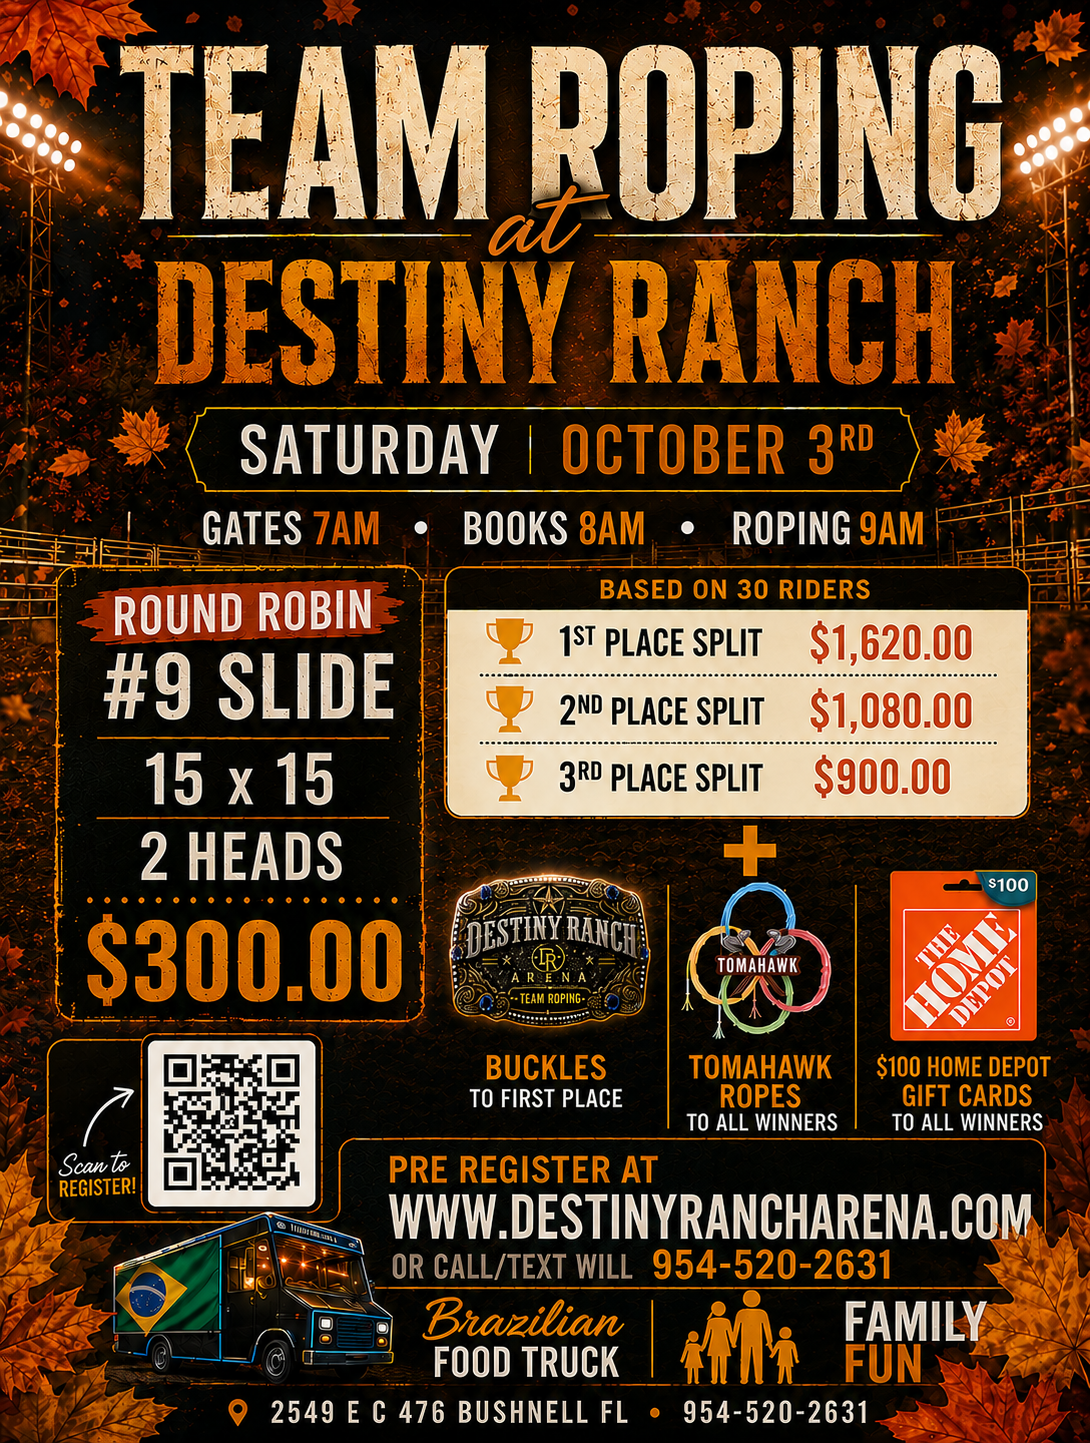
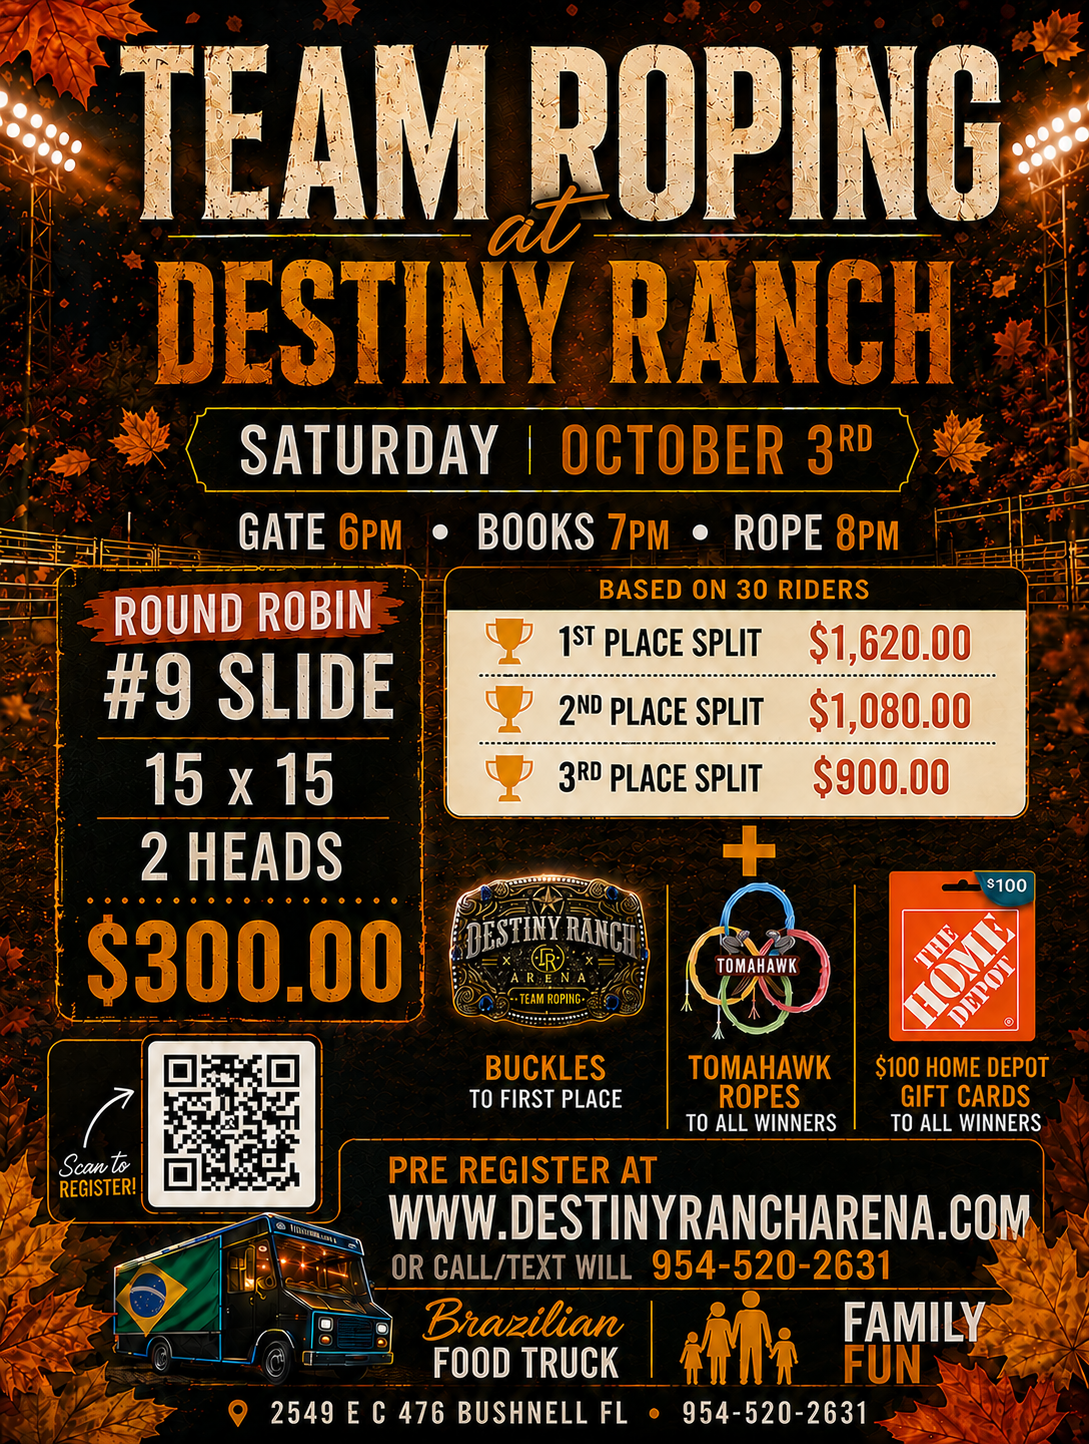
Update October 3 flyer with evening times (#91)
* Limit ride-in riders to draw participants for pick-and-draw

The Run Desk ride-in form listed every eligible contestant even when a
pick-and-draw roping was running. The header and heeler dropdowns now
only offer riders with an active draw registration, and submission is
blocked with a clear message if a rider is not entered in the draw —
matching the existing Registration Desk picked-team rule.

* Replace August 28 future-event flyer with August 30 reschedule flyer

The Mixed Roping event was rescheduled to Sunday, August 30 at 9:00 AM
due to weather. The Future Events section now shows the updated flyer
with the reschedule banner in place of the original August 28 flyer.

* Add slide rules option to Round Robin ropings

A Round Robin can now opt into slide rules with a new 'Apply slide
rules' toggle in the roping form, which reveals the slide number field.
When enabled, Round 2 times adjust 0.5 seconds per 0.5 team handicap
above or below the slide number, capped at 4 seconds — identical to the
Slide format. The Run Desk, reports, and public competition details show
the slide adjustment for these ropings the same way they do for Slides.

* Respect Not progressive setting so no-time teams advance rounds

- applyRunResult: no-time results advance to the next round when the
  event is not progressive (or before the progressive round)
- syncShortGoFinalists: include no-time teams in the final round when
  qualification is not required; append missing teams to an already
[…]

diff --git a/src/publicFlyers.test.ts b/src/publicFlyers.test.ts
@@ -17,7 +17,7 @@ describe("public flyer categories", () => {
       },
       {
         src: "./october-3-round-robin-9-slide-flyer.png",
-        alt: "Destiny Ranch Arena Saturday, October 3 Team Roping flyer — Round Robin #9 Slide, 15x15, roping at 9:00 AM",
+        alt: "Destiny Ranch Arena Saturday, October 3 Team Roping flyer — Round Robin #9 Slide, 15x15, roping at 8:00 PM",
       },
     ]);
   });

diff --git a/src/publicFlyers.ts b/src/publicFlyers.ts
@@ -14,7 +14,7 @@ export const futureEventFlyers: PublicFlyer[] = [
   },
   {
     src: "./october-3-round-robin-9-slide-flyer.png",
-    alt: "Destiny Ranch Arena Saturday, October 3 Team Roping flyer — Round Robin #9 Slide, 15x15, roping at 9:00 AM",
+    alt: "Destiny Ranch Arena Saturday, October 3 Team Roping flyer — Round Robin #9 Slide, 15x15, roping at 8:00 PM",
   },
 ];
 
